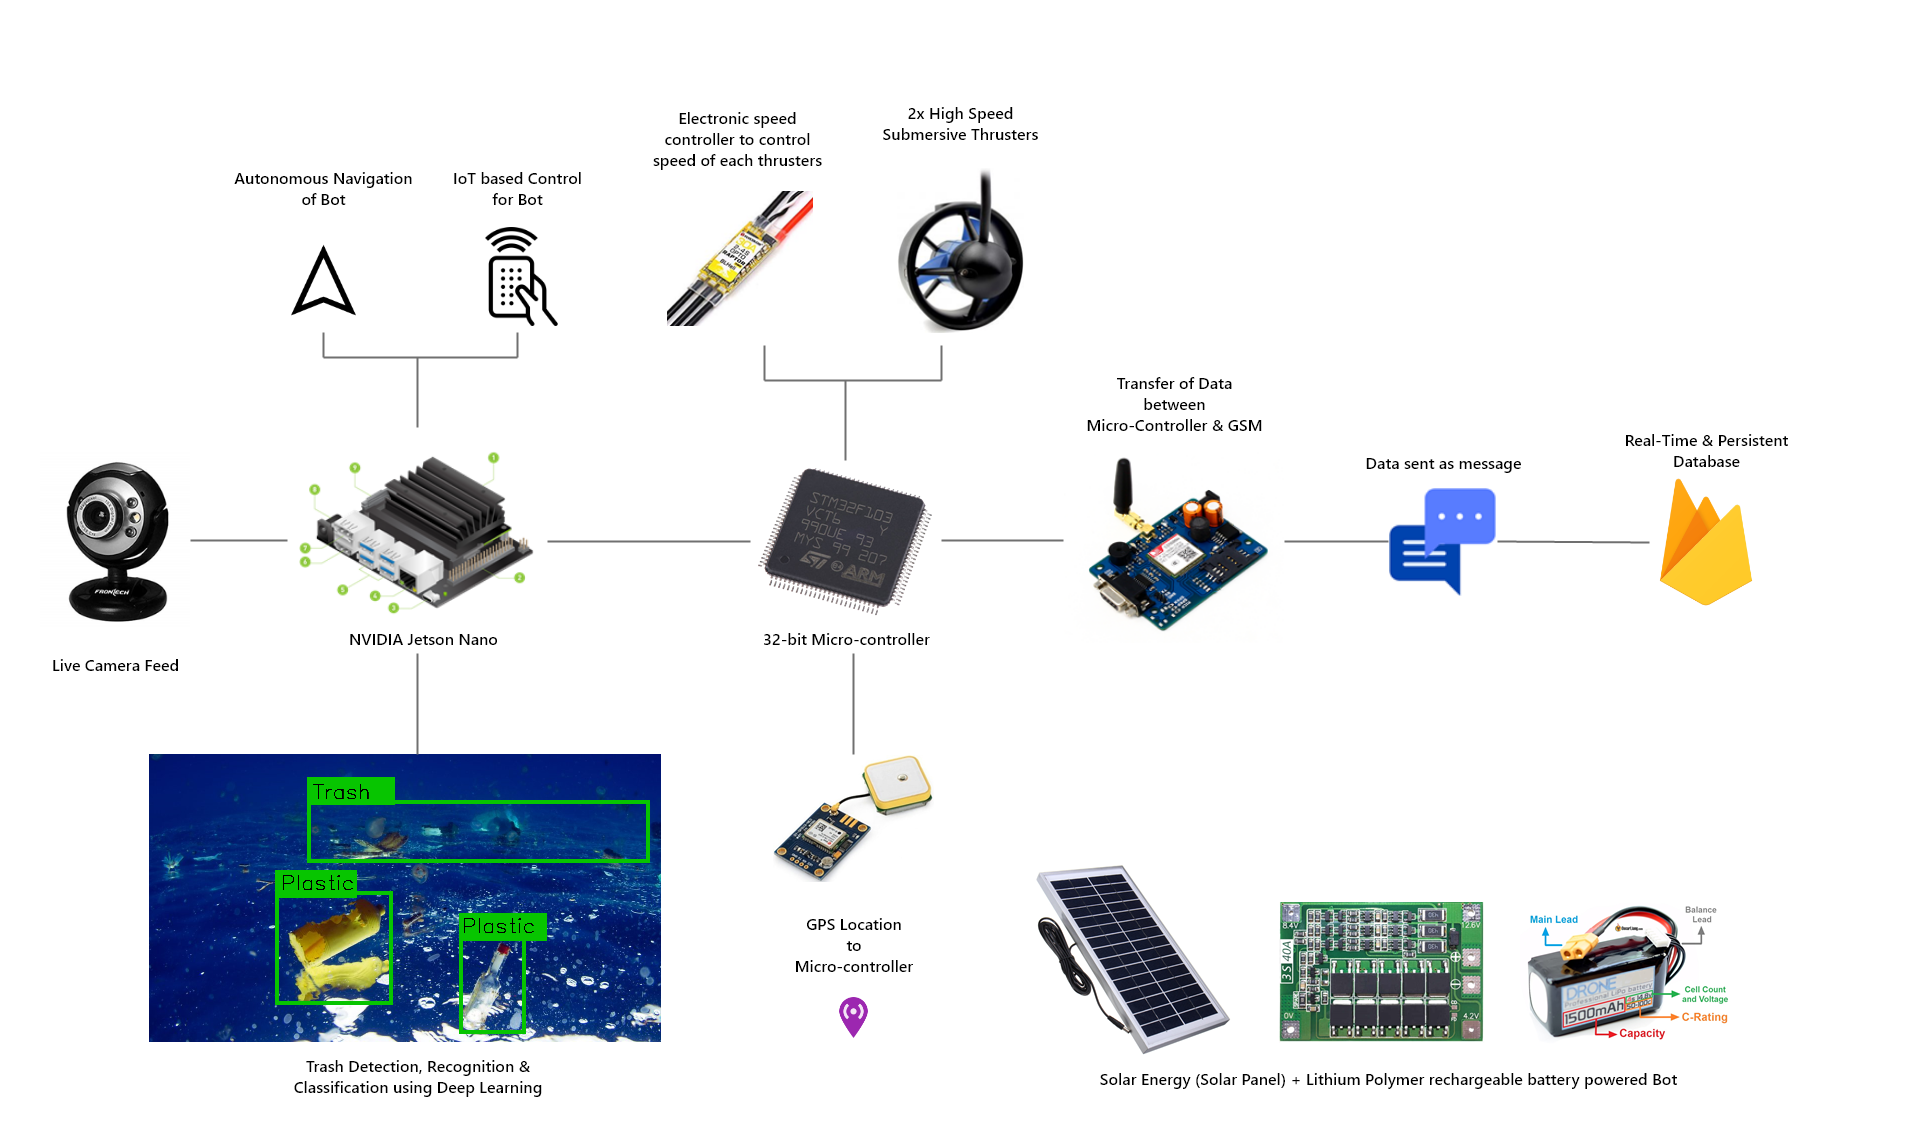
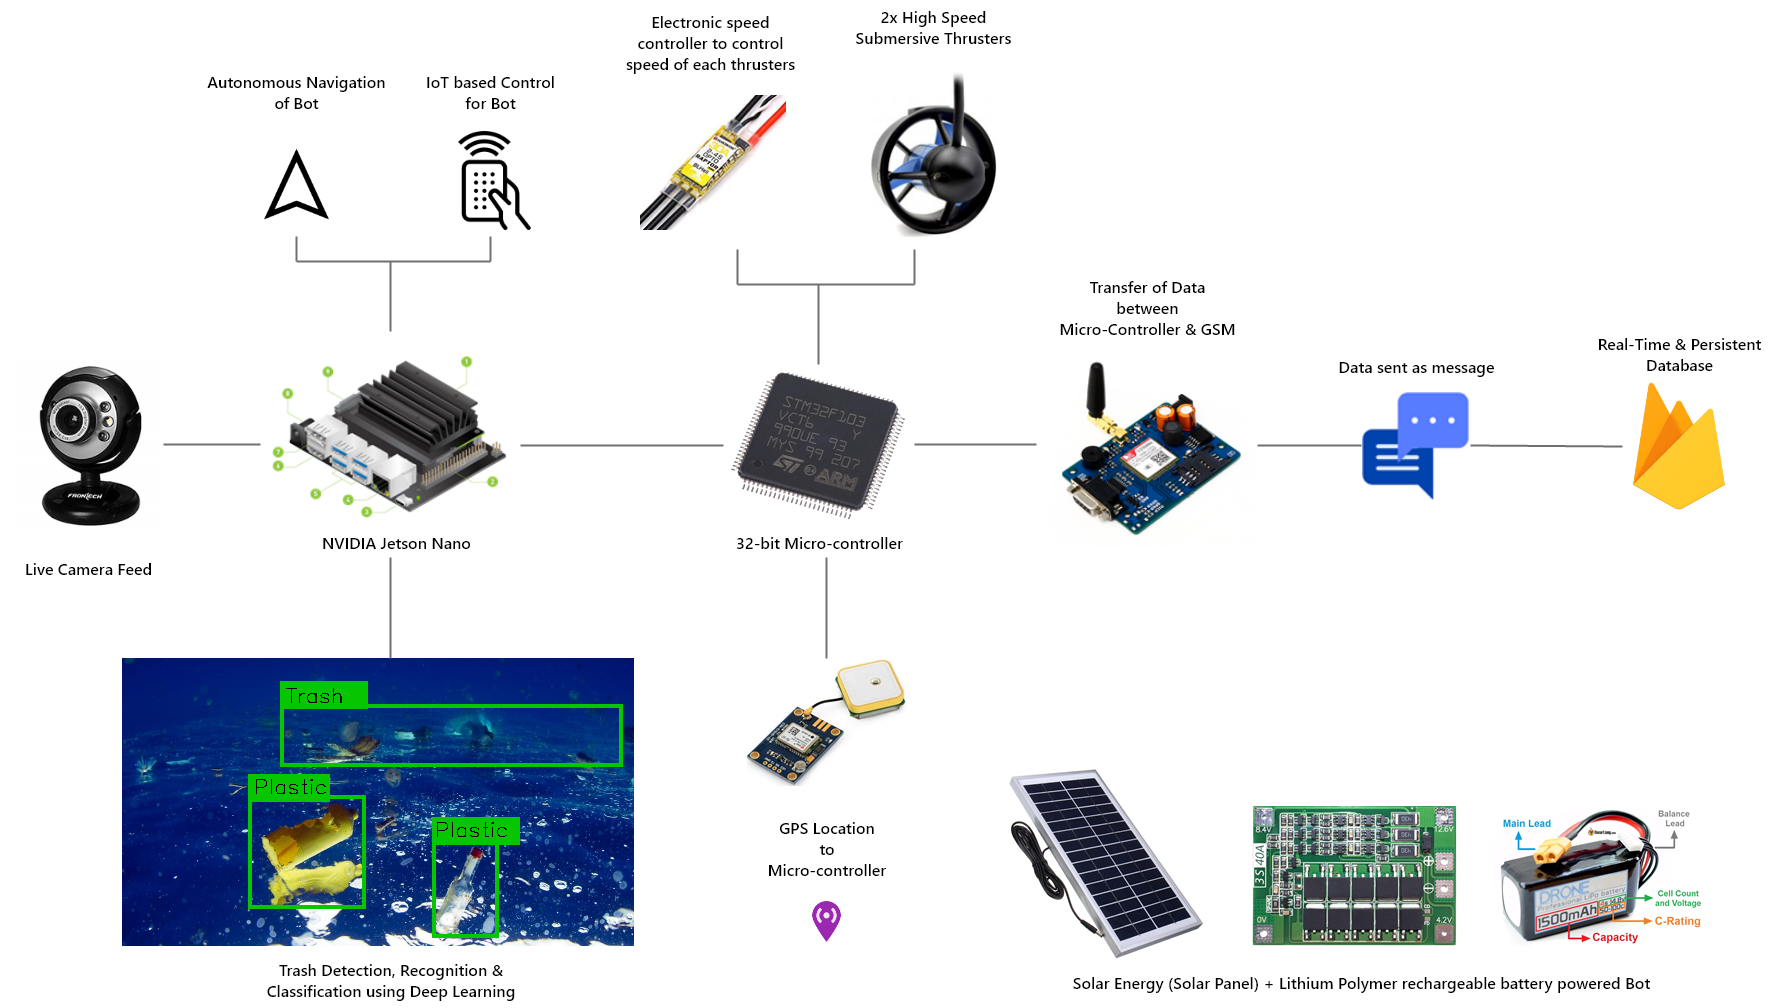
Initialized repository with README and images

diff --git a/README.md b/README.md
@@ -20,7 +20,7 @@ Once the waste gets filled up the bot moves towards the nearby collection centre
 
 ### Work Flow
 
-<img src="images/flow_chart.png" width="100%" height="600">
+<img src="images/flow_chart.png" width="100%" height="100%">
 
 ### Use Case
 
